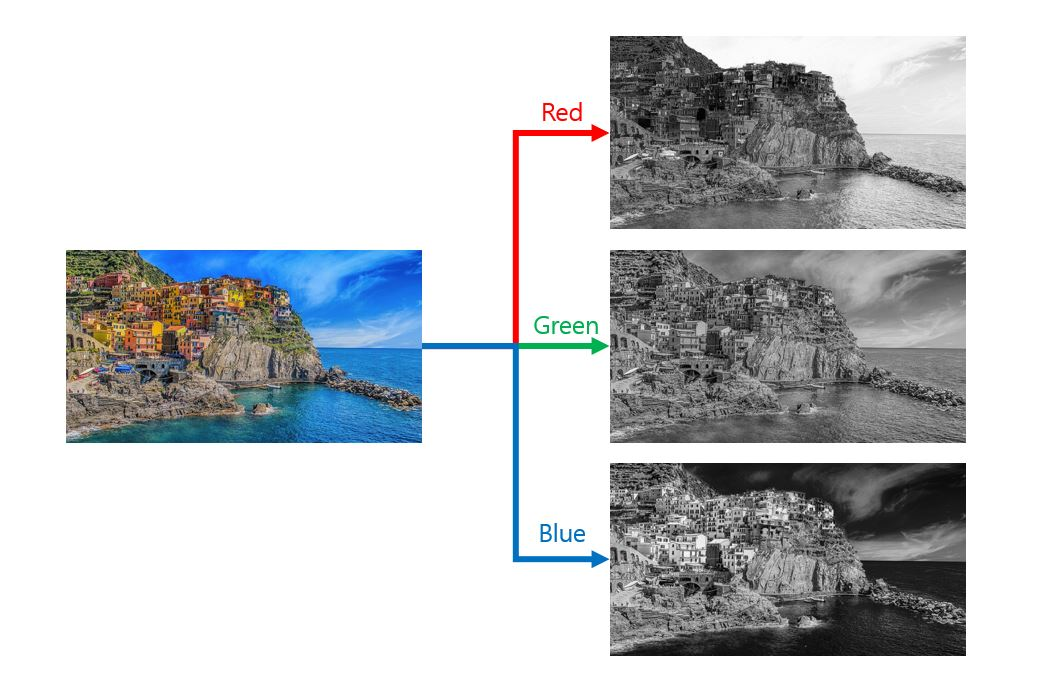
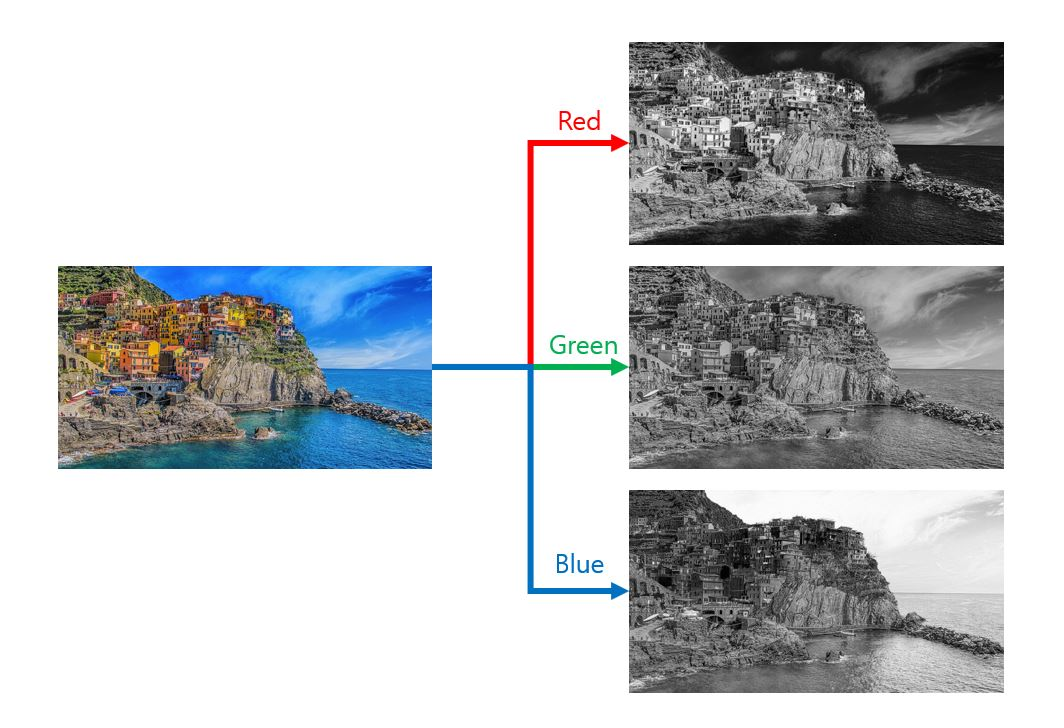
update

Changed region(s): [[0.0305, 0.0303, 0.9466, 0.9697]]

diff --git a/_posts/2018-10-28-ComputerVision-3.md b/_posts/2018-10-28-ComputerVision-3.md
@@ -73,14 +73,14 @@ OpenCV에서는 `U8`의 값을 가장 많이 사용합니다. `U8`은 `unsigned 
 [![4]({{ site.images }}/ComputerVision/ch3/4.jpg)]({{ site.images }}/ComputerVision/ch3/4.jpg)
 마지막으로 `채널`은 그래픽스 이미지의 색상 정보를 포함하고 있습니다. 채널은 일반적으로 `Red`, `Blue`, `Green`과 추가적으로 `Alpha`가 존재합니다. 이외에도 `Hue`, `Saturation`, `Value` 등의 채널도 존재합니다.
 
-색상을 표시할 때의 색상은 주로, `3~4` 채널의 값을 사용하고, 흑백의 이미지를 표현할 때는 `1` 채널을 사용합니다. `3~4` 개의 채널을 가질 때는 `다 채널` 또는 `다중 채널`을 뜻합니다. `1` 개의 채널을 가질 때는 `단일 채널`을 뜻합니다.
+색상을 표시할 때는 주로, `3~4` 채널의 값을 사용하고, 흑백의 이미지를 표현할 때는 `1` 채널을 사용합니다. `3~4` 개의 채널을 가질 때는 `다 채널` 또는 `다중 채널`을 뜻합니다. `1` 개의 채널을 가질 때는 `단일 채널`을 뜻합니다.
 
 색상 이미지 (RGB)에서 `Red`의 값만 추출한다해서 빨간색으로 표현되지는 않습니다. 그 이유는 **한 가지의 채널로만 색상을 표현**해야하기 때문입니다. 다음의 이미지에서 이미지를 채널별로 분리했을 때의 결과를 확인할 수 있습니다.
 
 <br>
 
 [![5]({{ site.images }}/ComputerVision/ch3/5.jpg)]({{ site.images }}/ComputerVision/ch3/5.jpg)
-`R의 성분`, `G의 성분`, `B의 성분`만 따로 뽑아내서 출력했지만 `흑백`으로 출력됩니다. 즉, **해당 성분에 가까울수록 검은색으로 출력되고 아닌 값은 하얀색으로 출력됩니다.**
+`R의 성분`, `G의 성분`, `B의 성분`만 따로 뽑아내서 출력했지만 `흑백`으로 출력됩니다. 즉, **해당 성분에 가까울수록 하얀색으로 출력되고 아닌 값은 검은색으로 출력됩니다.**
 
 <br>
 

diff --git a/_posts/2018-11-25-ComputerVision-7.md b/_posts/2018-11-25-ComputerVision-7.md
@@ -14,7 +14,7 @@ author: 윤대희
 ### 노이즈 제거 (Noise Reduction) ###
 ----------
 [![1]({{ site.images }}/ComputerVision/ch7/1.jpg)]({{ site.images }}/ComputerVision/ch7/1.jpg)
-`노이즈 (Nosie)`란 원하지 않는 데이터를 의미합니다. 다른 데이터를 **간섭**하거나 의도하지 않은 **왜곡**을 의미합니다. 노이즈는 알고리즘을 방해하는 주된 요인이 됩니다. 장면 전환이나 피사체의 움직임, 카메라의 성능 등 다양한 이유로 인하여 발생합니다. 노이즈를 제거하는 작업을 `디노이즈(DeNoise)`라 합니다.
+`노이즈 (Nosie)`란 원하지 않는 데이터를 의미합니다. 다른 데이터를 **간섭**하거나 의도하지 않은 **왜곡**을 의미합니다. 노이즈는 알고리즘을 방해하는 주된 요인이 됩니다. 장면 전환이나 피사체의 움직임, 카메라의 성능 등 다양한 이유로 인하여 발생합니다. 노이즈를 제거하는 작업을 `디노이즈 (DeNoise)`라 합니다.
 
 OpenCV를 통하여 불러오는 이미지는 **Bitmap** 형식이므로, 어떤 이미지라도 **노이즈는 항상 존재합니다.** 또한, 노이즈가 존재하지 않는 이상적인 이미지라고 가정하여도 검출하려는 객체 이외에는 검출을 방해하는 요소가 됩니다. 불필요한 데이터는 모두 노이즈로 가정할 수 있습니다. 노이즈를 제거하여 **검출**이나 **분석** 등의 `정확성`과 `정밀성`을 높일 수 있습니다.
 

diff --git a/_posts/2017-09-06-C#-13.md b/_posts/2017-09-06-C#-13.md
@@ -113,7 +113,7 @@ class animal
 }
 {% endhighlight %}
 
-**실제 출력 값 : 무거운 2살**<br>
+**실제 출력 값 : 가벼운 2살**<br>
 
 위와 같이 반환 형식없이 매개변수만을 이용하여 출력값을 바꿔서 출력할 수 있습니다. `order_Size`와 `order_Age`를 불러와 `size`와 `age`라는 변수에 값을 넣어줍니다.
 
